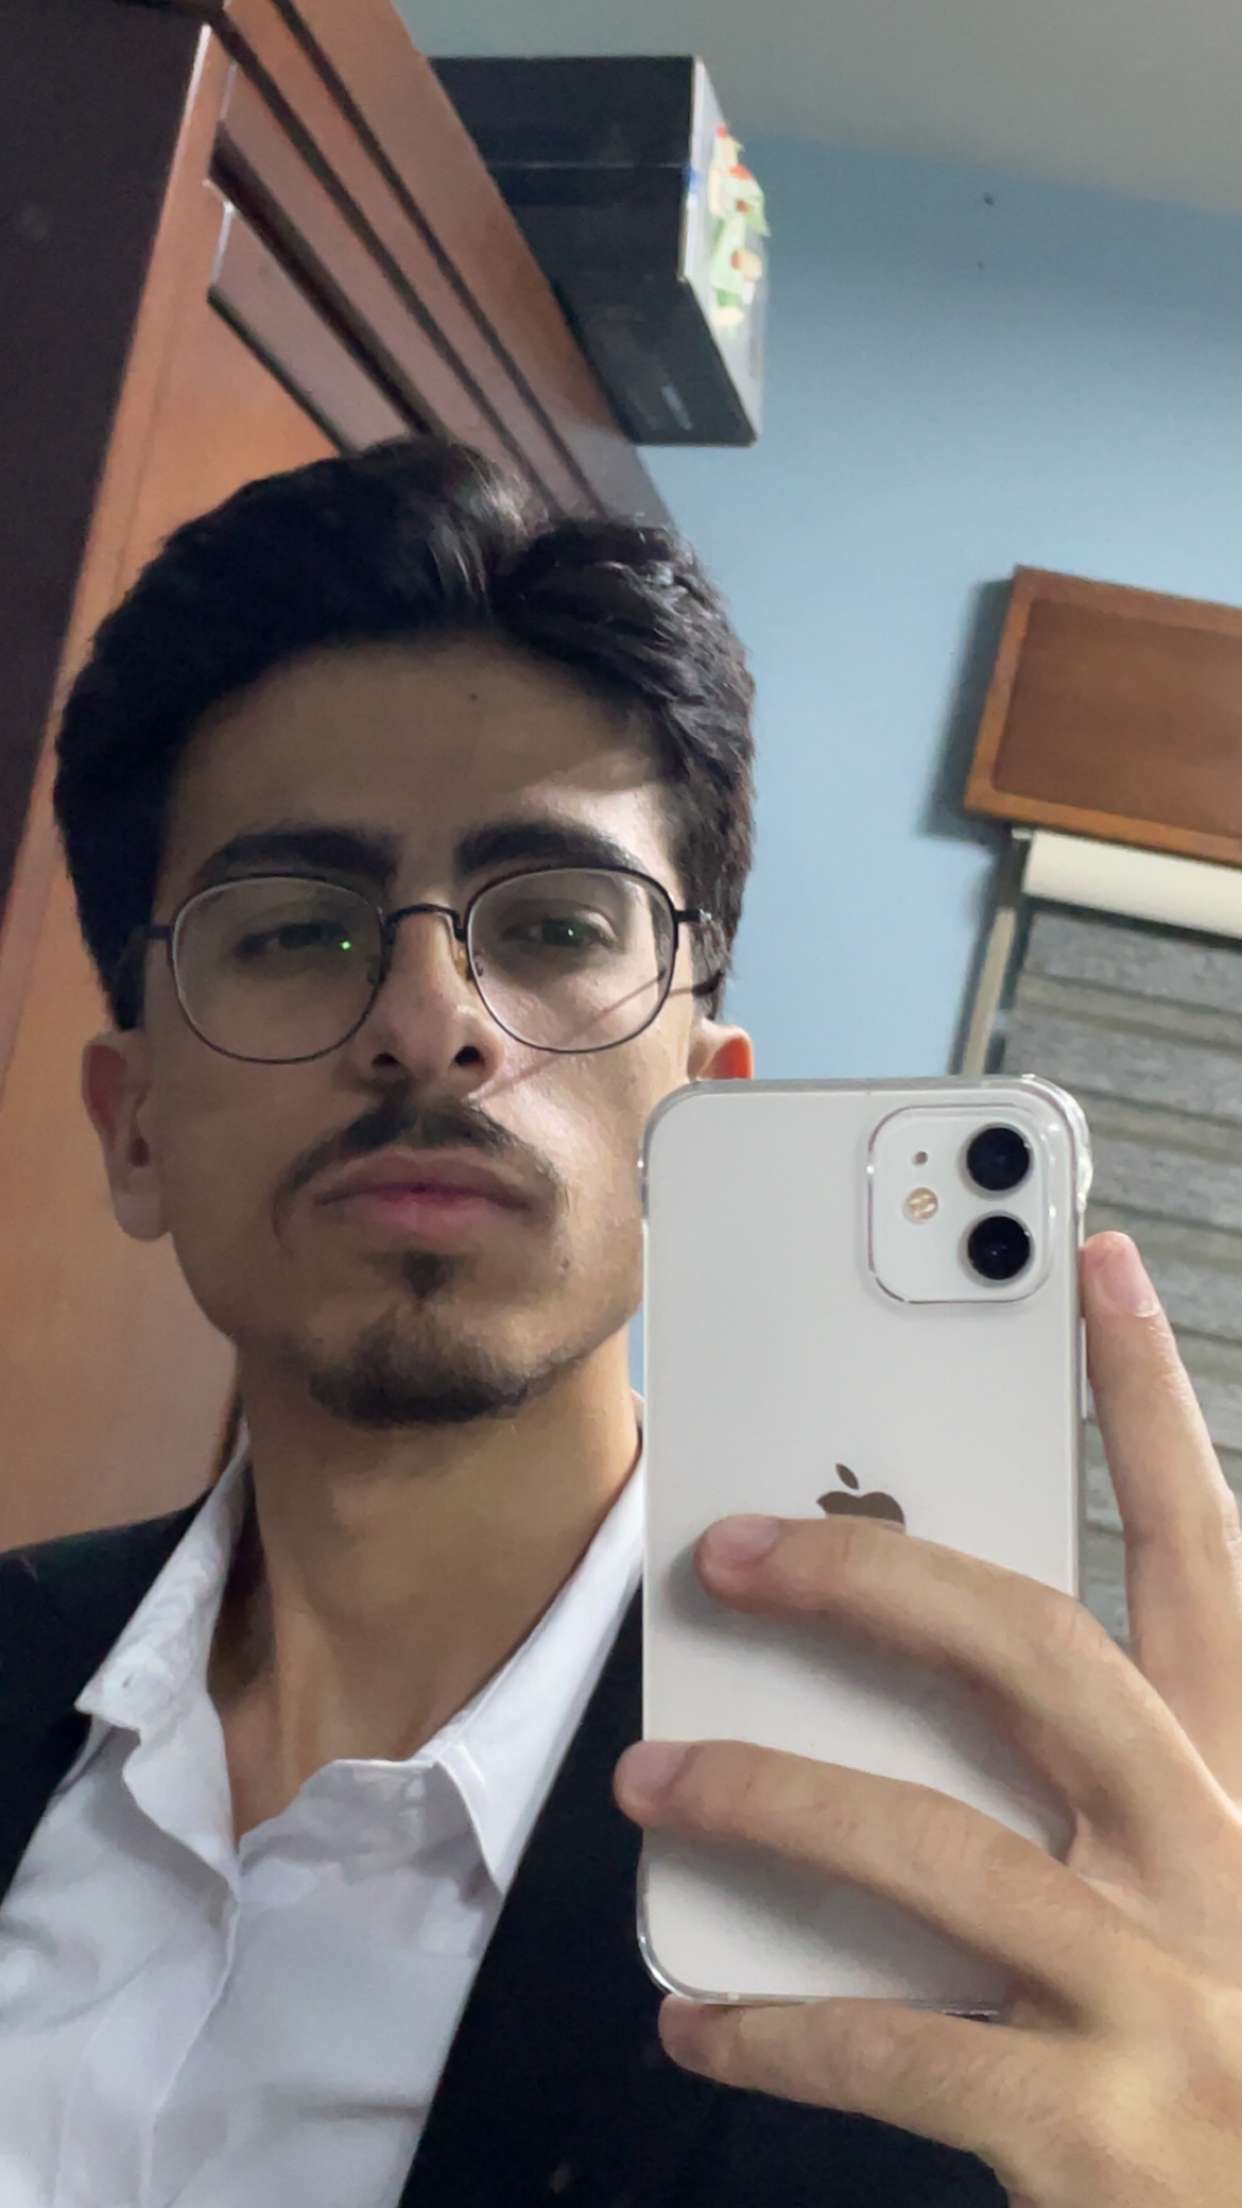
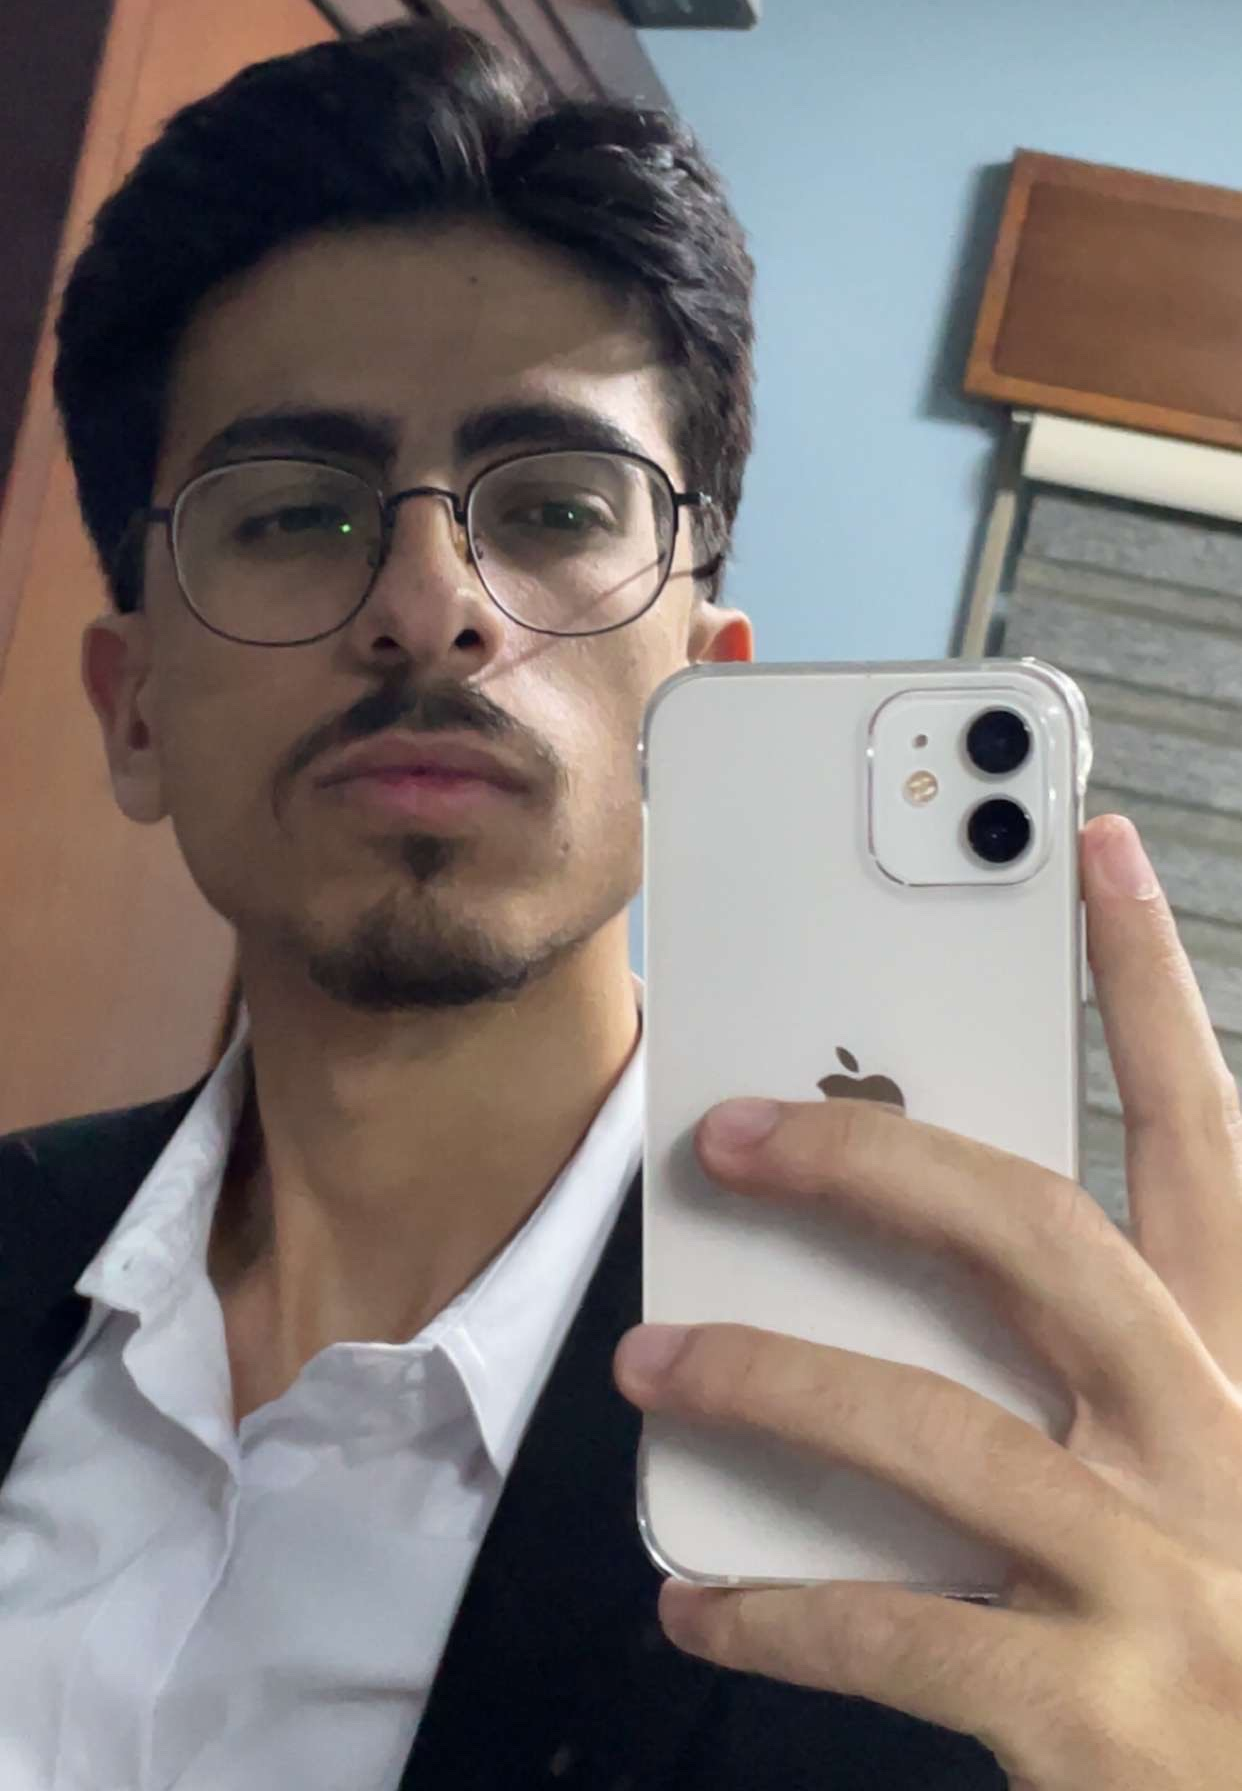
ss

diff --git a/index.html b/index.html
@@ -98,7 +98,9 @@
 
       <div data-aos="fade-left" data-aos-delay="200">
         <div class="flex justify-center mb-6">
-          <img src="profile.png" alt="A'laa Gharaibeh" class="size-52 object-cover object-[center_40%] rounded-full border-4 border-indigo-400/40 dark:border-indigo-300/35 outline outline-8 outline-indigo-400/15 shadow-2xl hover:scale-105 transition">
+          <a href="profile.png" id="profileImageTrigger" aria-label="Open profile photo">
+            <img src="profile.png" alt="A'laa Gharaibeh" class="size-60 md:size-64 object-cover object-center rounded-full border-4 border-indigo-400/40 dark:border-indigo-300/35 outline outline-8 outline-indigo-400/15 shadow-2xl scale-70 hover:scale-85 transition">
+          </a>
         </div>
         <div class="rounded-2xl border border-slate-300/70 dark:border-white/10 bg-white/85 dark:bg-slate-800/60 p-6 backdrop-blur-xl shadow-2xl">
           <div class="flex gap-2 mb-4">
@@ -117,6 +119,10 @@
       </div>
     </div>
   </section>
+
+  <div id="imageModal" class="fixed inset-0 z-[70] hidden items-center justify-center bg-slate-950/80 p-6">
+    <img src="profile.png" alt="A'laa Gharaibeh full photo" class="max-h-[90vh] max-w-[90vw] rounded-2xl shadow-2xl">
+  </div>
 
   <section id="about" class="max-w-7xl mx-auto px-6 py-20 md:py-28">
     <div class="text-center mb-16" data-aos="fade-up">
@@ -304,6 +310,8 @@
     const html = document.documentElement;
     const themeToggle = document.getElementById('themeToggle');
     const header = document.getElementById('header');
+    const profileImageTrigger = document.getElementById('profileImageTrigger');
+    const imageModal = document.getElementById('imageModal');
 
     const savedTheme = localStorage.getItem('theme');
     if (savedTheme === 'dark') {
@@ -327,6 +335,26 @@
       } else {
         header.classList.remove('bg-slate-50/85', 'dark:bg-slate-950/80', 'backdrop-blur-xl', 'border-b', 'border-slate-300/70', 'dark:border-white/10', 'py-4');
         header.classList.add('py-6');
+      }
+    });
+
+    profileImageTrigger.addEventListener('click', (e) => {
+      e.preventDefault();
+      imageModal.classList.remove('hidden');
+      imageModal.classList.add('flex');
+    });
+
+    imageModal.addEventListener('click', (e) => {
+      if (e.target === imageModal) {
+        imageModal.classList.add('hidden');
+        imageModal.classList.remove('flex');
+      }
+    });
+
+    document.addEventListener('keydown', (e) => {
+      if (e.key === 'Escape' && !imageModal.classList.contains('hidden')) {
+        imageModal.classList.add('hidden');
+        imageModal.classList.remove('flex');
       }
     });
 
